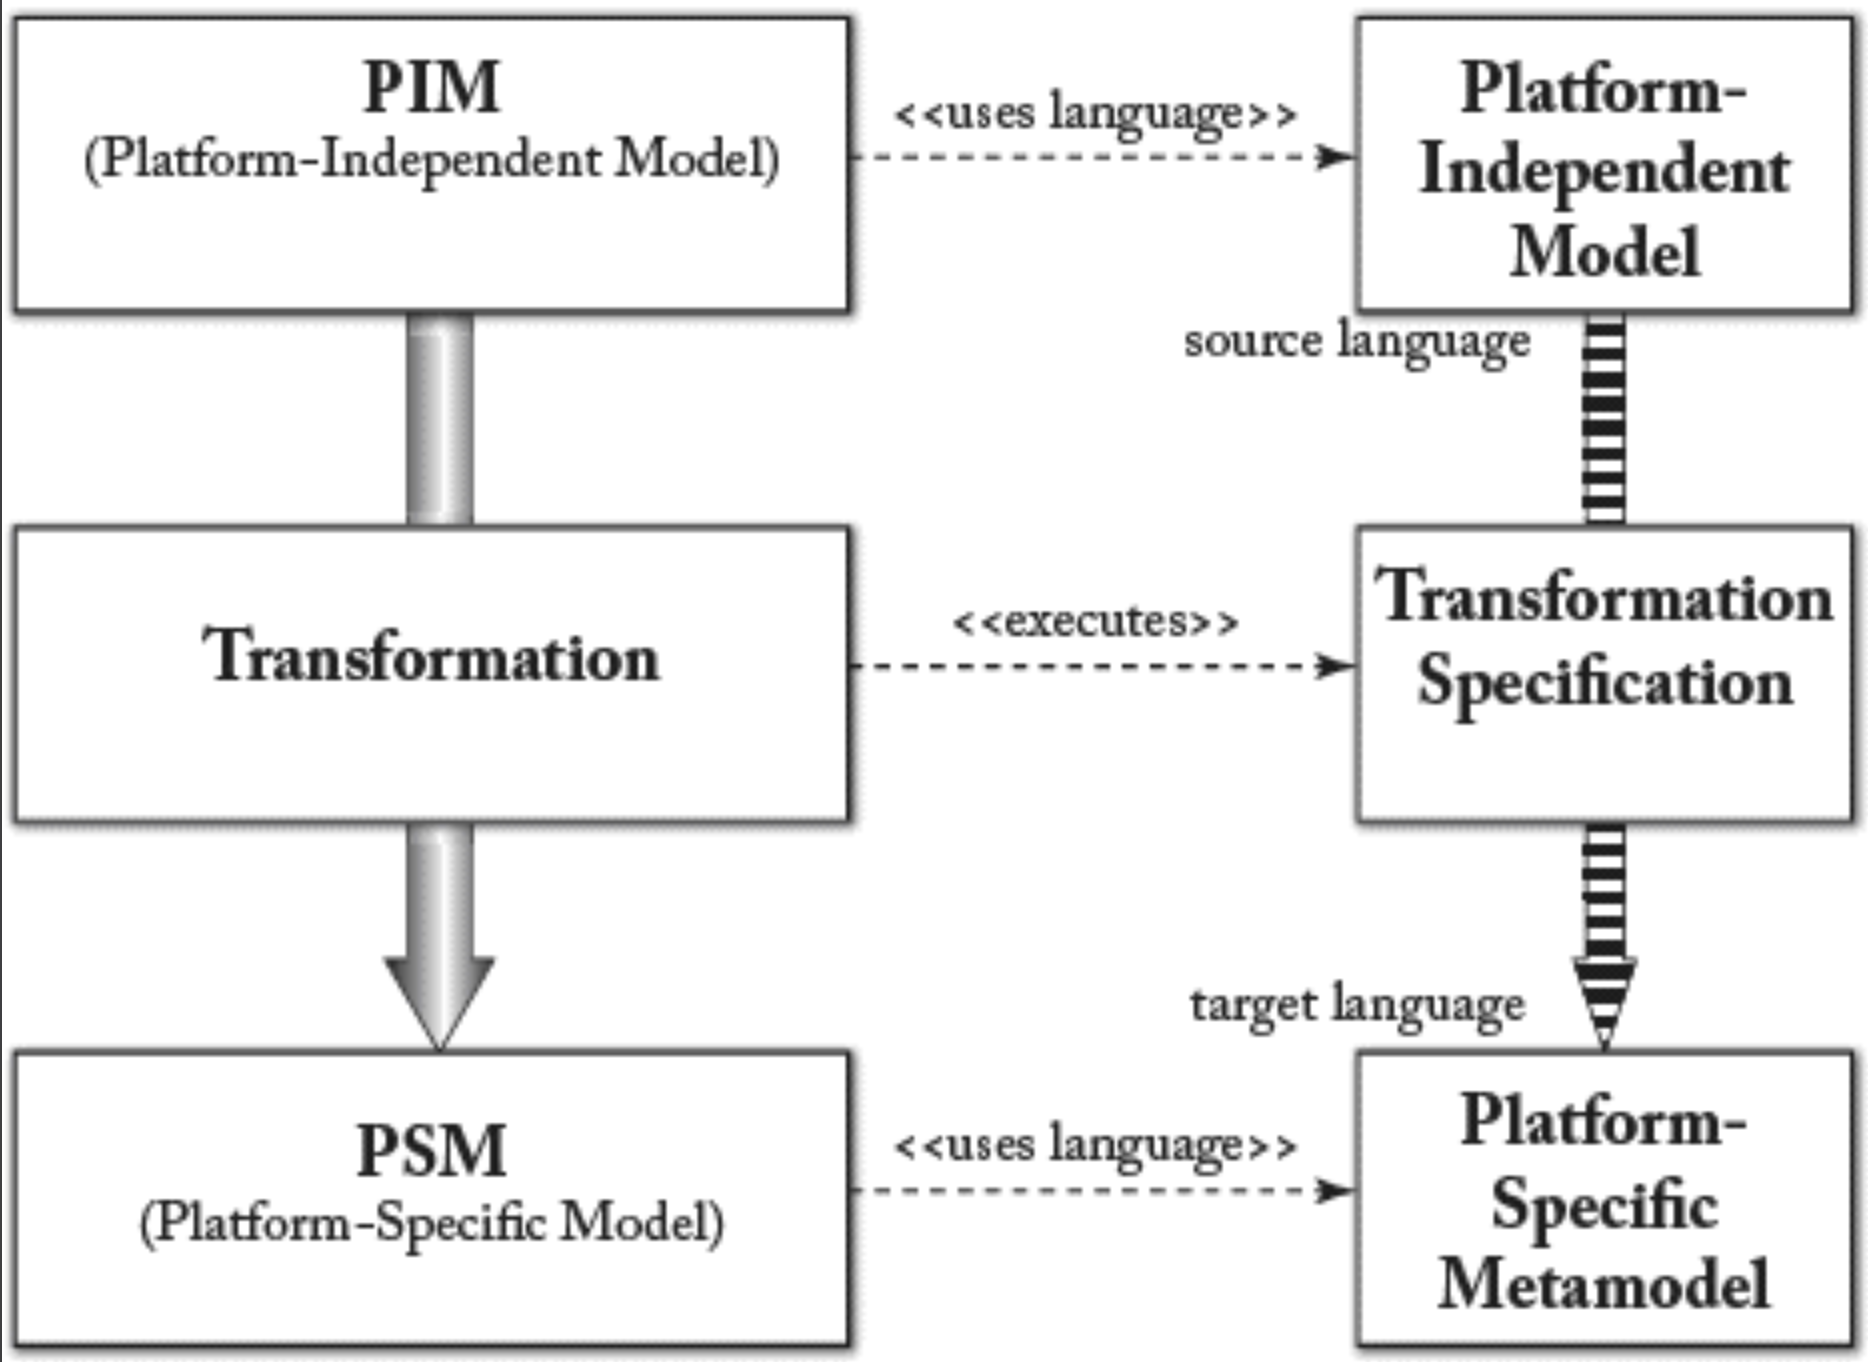
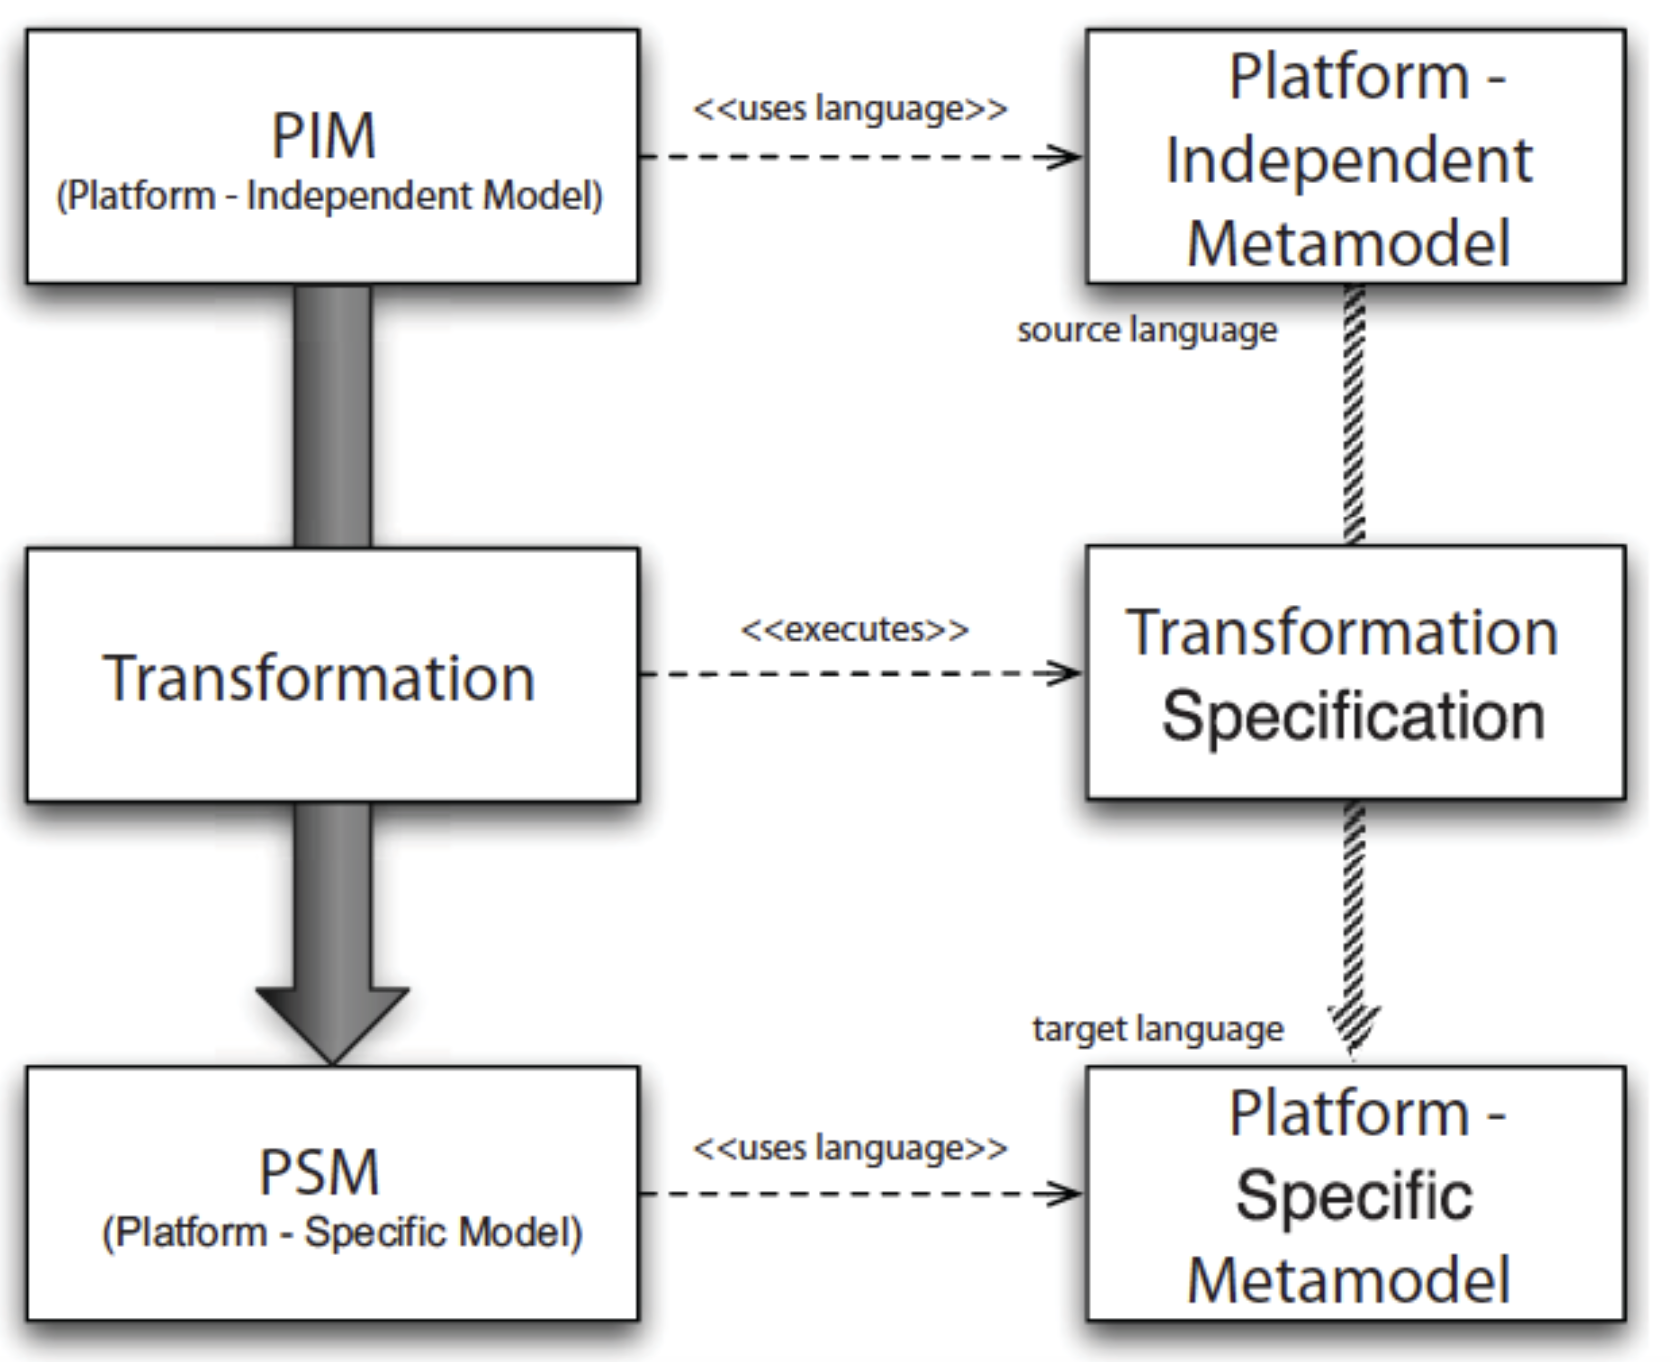
(mdse book): highlight and refine translation for chapter 4.2, 4.3, 4.5 	update fig4.5.png accordind to teaching material

Changed region(s): [[0.0, 0.0, 1.0, 1.0]]

diff --git a/mdse-in-practice/ch4/5.md b/mdse-in-practice/ch4/5.md
@@ -2,17 +2,17 @@
 
 #### ▶[上一节](4.md)
 
-在结束 MDA 章节之前，我们还需提及 OMG 发起的另一项重要倡议，该倡议旨在协助软件开发者应对 “逆向” 难题 —— 即系统演进与现代化改造问题。正如 MDA 体现了 OMG 对 MDD 的构想，其对应的 ADM（架构驱动现代化）倡议则致力于解决系统逆向工程难题，并制定了多项相关标准。特别是 OMG 架构驱动现代化工作组 [54](../bibliography.md#54) 致力于制定规范并推动行业共识，以实现现有应用的现代化改造。所谓现有应用，指任何已投入生产环境的软件，无论其运行平台、编程语言或投入使用时长。该工作组致力于优化对已进入维护与演进阶段的现有软件应用的理解与演进流程，以实现：软件改进、修改、互操作性、重构与重组、复用、迁移、面向服务的集成等目标。
+在结束 MDA 章节之前，我们还需提及 OMG 发起的另一项重要倡议，该倡议旨在协助软件开发者应对 “逆向” 难题，即系统演进与现代化改造问题。正如 MDA 体现了 OMG 对 MDD 的构想，<ins>其对应的架构驱动现代化（Architecture-Driven Modernization, ADM）倡议则致力于解决系统逆向工程难题，并制定了多项相关标准</ins>。特别是 OMG 架构驱动现代化工作组 [54](../bibliography.md#54) 致力于制定规范并推动行业共识，以实现现有应用的现代化改造。所谓现有应用，指任何已投入生产环境的软件，无论其运行平台、编程语言或投入使用时长。该工作组致力于优化对已进入维护与演进阶段的现有软件应用的理解与演进流程，以实现：软件改进、修改、互操作性、重构与重组、复用、迁移、面向服务的集成等目标。
 
-该倡议的终极目标是提供概念化工具，通过基于模型的方法实现现有应用的可行复兴 (viable revitalization)，从而降低维护工作量与成本，并延长应用生命周期。
+<ins>该倡议的终极目标是提供概念化工具，通过基于模型的方法实现现有应用的可行复兴 (viable revitalization)，从而降低维护工作量与成本，并延长应用生命周期。</ins>
 
 ADM 工作组定义了一系列元模型，用于描述现代化改造问题的各个维度：
 
-- 知识发现元模型（Knowledge Discovery Metamodel, KDM）：作为现有软件系统的中间表示形式，定义了生命周期管理工具深度语义集成所需的通用元数据。KDM 利用 OMG 的 MOF 定义了处理现有软件的工具间 XMI 交换格式，以及现代化工具的通用抽象接口。该模型支持在软件工程工件中进行知识发现。
-- 软件测量元模型（Software Measurement Metamodel, SMM）：用于表示与软件、其运行及设计相关的测量信息的元模型。该规范是可扩展的元模型，用于交换涉及现有软件资产（设计、实现或运行）的软件相关测量信息。
-- 抽象语法树元模型（Abstract Syntax Tree Metamodel, ASTM）：与 KDM 互补的建模规范。KDM 确立了抽象语义图模型的规范，而 ASTM 则确立了抽象语法树模型的规范。因此，ASTM 支持将所有代码级软件语言语句直接映射至低级软件模型。该映射旨在为任何软件语言编写的代码提供可逆模型表示框架（通过为 ASTM 补充具体语法规范实现）。
+- <ins>知识发现元模型（Knowledge Discovery Metamodel, KDM）：作为现有软件系统的中间表示形式，定义了生命周期管理工具的深度语义集成所需的通用元数据。KDM 利用 OMG 的 MOF 定义了处理现有软件的工具间 XMI 交换格式，以及现代化工具的通用抽象接口</ins>。该模型支持在软件工程工件中进行知识发现。
+- <ins>软件测量元模型（Software Measurement Metamodel, SMM）：用于表示与软件、其运行及设计相关的测量信息的元模型。</ins>该规范是可扩展的元模型，用于交换涉及现有软件资产（设计、实现或运行）的软件相关测量信息。
+- <ins>抽象语法树元模型（Abstract Syntax Tree Metamodel, ASTM）：与 KDM 互补的建模规范。KDM 确立了抽象语义图模型的规范，而 ASTM 则确立了抽象语法树模型的规范。因此，ASTM 支持将所有代码级软件语言语句直接映射至低级软件模型。该映射旨在为任何软件语言编写的代码提供可逆模型表示框架（通过为 ASTM 补充具体语法规范实现）。</ins>
 
-这套元模型体系是实现典型模型驱动逆向工程（MDRE）与现代化场景的有效工具，相关实践已在第 [3](../ch3/0.md) 章阐述并如 [Fig 4.6](#fig-46) 所示。设计者从系统现状的 PSM 出发，通过知识发现提取 PIM 模型，可利用 ASTM 提供的与实现语言模型的一对一映射关系。随后，他们致力于使这些模型符合功能性与非功能性需求（可能在 CIM 层级给出）所要求的合规等级（例如依据 SMM 描述）。最终，他们将系统与流程转化为无缝衔接的 MDA 合规解决方案，用于设计与实现目标版本。
+<ins>这套元模型体系是实现典型模型驱动逆向工程（MDRE）与现代化场景的有效工具</ins>，相关实践已在第 [3](../ch3/0.md) 章阐述并如 [Fig 4.6](#fig-46) 所示。<ins>设计者从系统现状的 PSM 出发，通过知识发现提取 PIM 模型，可利用 ASTM 提供的与实现语言模型的一对一映射。随后，他们致力于使这些模型符合功能性与非功能性需求（可能在 CIM 层级给出）所要求的合规等级（例如依据 SMM 描述）。最终，他们将系统与流程转化为无缝衔接的 MDA 兼容解决方案，用于设计与实现目标版本。</ins>
 
 #### Fig 4.6
 ![Fig 4.6](../img/fig4.6.png)

diff --git a/mdse-in-practice/ch4/3.md b/mdse-in-practice/ch4/3.md
@@ -4,23 +4,13 @@
 
 通常而言，映射由两个不同模型元素间的对应关系定义构成。<ins>典型情况下，映射在两个元模型（即建模语言）之间进行指定，以实现相应模型间的自动转换</ins>。例如，若 PIM 层由 Petri Net 描述，而 PSM 由 UML 动态图描述，则映射必须将 Petri Net 的概念与 UML 图中的对应概念关联起来。元模型间的映射使我们能够构建模型间的映射关系，例如：追踪（详见第 [8](ch8/0.md) 章）。<ins>元模型层定义的映射称为 *内涵 (intensional)* 映射，而模型层定义的映射称为 *外延 (extensional)* 映射（因其定义于元模型的外延，即实例之上）。</ins>
 
-#### Fig 4.3
-![Fig 4.3](../img/fig4.3.png)
-
-*Fig 4.3: PIM 示例：概念（Account）的定义、其属性及任何涉及该概念的系统实现需考虑的约束*
-
-#### Fig 4.4
-![Fig 4.4](../img/fig4.4.png)
-
-*Fig 4.4: PSM 示例：基于 EJB 的实现模型*
-
-映射规范可通过两种方式定义：*编织 (weavings)* ，定义元模型元素间的简单对应关系；和 *约束 (constraints)* ，描述模型转换的要求。两种规范均可推导出模型转换规则。
+<ins>映射规范可通过两种方式定义：*编织 (weavings)* ，定义元模型元素间的简单对应关系；和 *约束 (constraints)* ，描述模型转换的要求</ins>。两种规范均可推导出模型转换规则。
 
 映射提供规则和/或算法，用于将 PIM 语言元模型中所有类型的实例转换为 PSM 语言元模型中的类型实例。[Fig 4.5](#fig-45) 说明了这一点：从 PIM 到 PSM 的映射被定义为在平台无关元模型与平台相关元模型之间进行的转换。
 
 不同模型（或建模层次）间的映射可通过转换实现。映射可为不同建模层次间的转换提供概念性规范。显然，目标在于尽可能自动化映射实现，从而避免耗费大量人力进行手动转换。
 
-在某些情况下，映射必须考虑开发过程中针对低层模型细节所作的决策。例如，从 PIM 到 PSM 的映射需基于 PSM 层级的选择，考虑适用于 PIM 层级的决策。此类映射会定义注解（MDA 术语中的 *标记 (marks)* ），用于引导两层级间的转换。例如，将 PIM 映射到 Enterprise Java Bean（EJB）平台的 PSM 时，需要决定为不同的 PIM 层概念创建何种 Bean 类型。本质上，标记代表 PSM 中的概念，应用于 PIM 元素以指示该元素的转换方式。PIM 与所有平台标记共同构成转换过程的输入，最终生成 PSM。
+<ins>在某些情况下，映射必须考虑开发过程中针对低层模型细节所作的决策</ins>。例如，从 PIM 到 PSM 的映射，需基于 PSM 层级的选择，考虑适用于 PIM 层级的决策。此类映射会定义注解（MDA 术语中的 *标记 (marks)* ），用于引导两层级间的转换。例如，将 PIM 映射到 Enterprise Java Bean（EJB）平台的 PSM 时，需要决定为不同的 PIM 层概念创建何种 Bean 类型。本质上，标记代表 PSM 中的概念，应用于 PIM 元素以指示该元素的转换方式。PIM 与所有平台标记共同构成转换过程的输入，最终生成 PSM。
 
 #### Fig 4.5
 ![Fig 4.5](../img/fig4.5.png)

diff --git a/mdse-in-practice/ch4/2.md b/mdse-in-practice/ch4/2.md
@@ -16,11 +16,21 @@
 
 通过模型转换可定义各级别间的映射关系。通常每个 CIM 可映射至不同 PIM，而不同 PIM 又可映射至不同 PSM。
 
-以下是一个涵盖三个层级的具体示例：某企业欲实施开票流程。在 CIM 层级（ [Fig 4.2](#fig-42) ），该流程被定义为业务流程模型，列出需执行的任务集及其依赖关系。PIM 层将通过信息模型和行为模型描述软件应用将承担的部分工作（如数据库访问和邮件发送可完全自动化，但签名纸质发票的寄送需人工投递）。该层需详细说明流程系统实现的具体细节（例如 [Fig 4.3](3.md#fig-43) 展示了账户概念的 PIM 描述）。最终在 PSM 层，需选定流程的实现平台（其描述应单独定义），并在模型中提供该平台相关技术细节的精确描述，包括所有涉及平台特定API调用的细节等。例如 [Fig 4.4](3.md#fig-44) 展示了账户概念的 PSM 描述，包含所选具体实施平台（本例为 Enterprise Java bean，EJB）的所有细节。其原理在于将所有在实现迁移至不同平台后不再相关的细节保留在PSM层，从而使PIM层保持通用性和平台无关性。
+以下是一个涵盖三个层级的具体示例：某企业欲实施开票流程。在 CIM 层级（ [Fig 4.2](#fig-42) ），该流程被定义为业务流程模型，列出需执行的任务集及其依赖关系。PIM 层将通过信息模型和行为模型描述软件应用将承担的部分工作（如数据库访问和邮件发送可完全自动化，但签名纸质发票的寄送需人工投递）。该层需详细说明流程系统实现的具体细节（例如 [Fig 4.3](#fig-43) 展示了账户概念的 PIM 描述）。最终在 PSM 层，需选定流程的实现平台（其描述应单独定义），并在模型中提供该平台相关技术细节的精确描述，包括所有涉及平台特定API调用的细节等。例如 [Fig 4.4](#fig-44) 展示了账户概念的 PSM 描述，包含所选具体实施平台（本例为 Enterprise Java bean，EJB）的所有细节。其原理在于将所有在实现迁移至不同平台后不再相关的细节保留在PSM层，从而使PIM层保持通用性和平台无关性。
 
 #### Fig 4.2
 ![Fig 4.2](../img/fig4.2.png)
 
 *Fig 4.2: CIM 示例：组织内部执行的业务流程描述*
+
+#### Fig 4.3
+![Fig 4.3](../img/fig4.3.png)
+
+*Fig 4.3: PIM 示例：概念（Account）的定义、其属性及任何涉及该概念的系统实现需考虑的约束*
+
+#### Fig 4.4
+![Fig 4.4](../img/fig4.4.png)
+
+*Fig 4.4: PSM 示例：基于 EJB 的实现模型*
 
 #### ▶[下一节](3.md)
